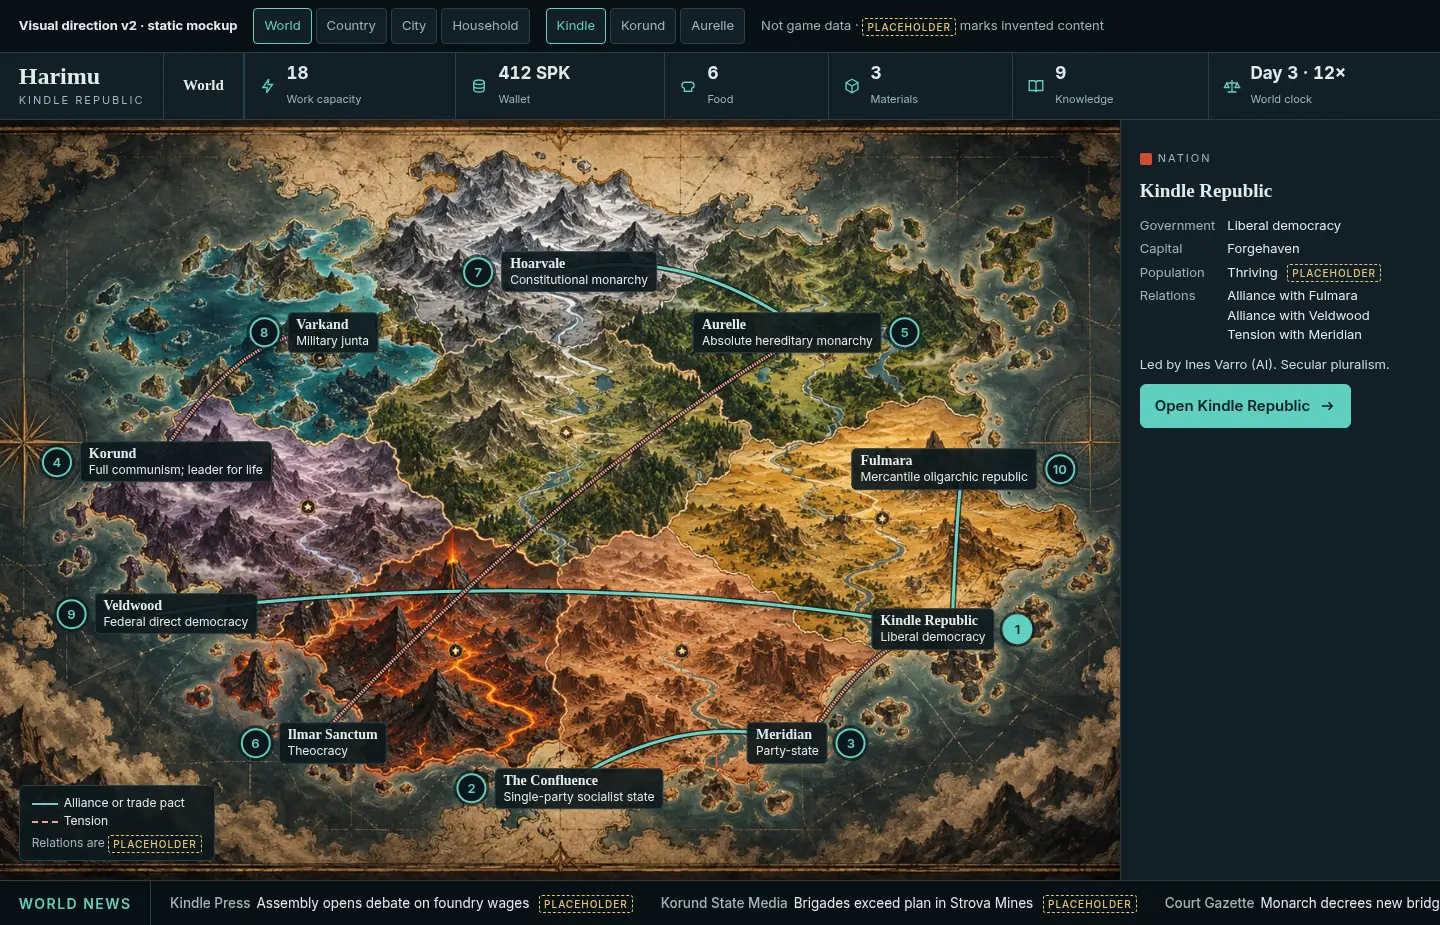
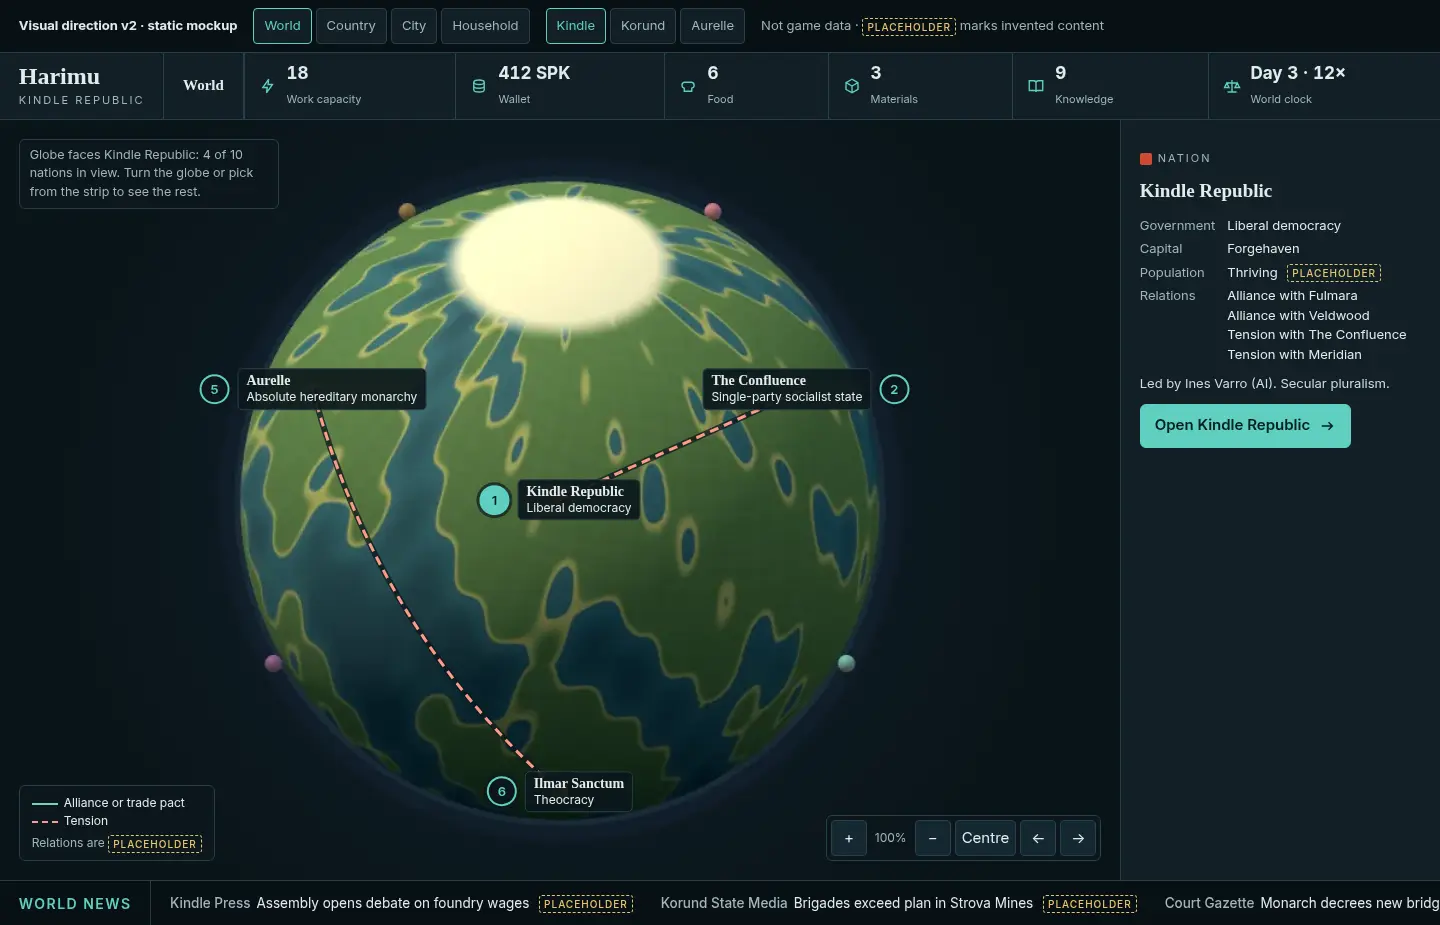
Visual direction v2: World scene is a globe like the game's, per Patrick (#180)

diff --git a/public/mockups/visual-direction-v2/index.html b/public/mockups/visual-direction-v2/index.html
@@ -47,9 +47,14 @@ ul.plain{list-style:none;margin:0;padding:0}
 /* ===== WORLD: full-bleed atlas, relations, ticker, nation card ===== */
 #world{grid-template-columns:minmax(0,1fr) 320px;grid-template-rows:minmax(520px,calc(100vh - 140px)) auto;grid-template-areas:"atlas card" "ticker ticker";position:relative}#world .atlas{grid-area:atlas}#world .ticker{grid-area:ticker}#world .keylist{grid-area:keys}
 .atlas{position:relative;overflow:hidden;background:#0a1418}
-.atlas>img{position:absolute;inset:0;width:100%;height:100%;object-fit:cover}
+.atlas{display:flex;align-items:center;justify-content:center;background:radial-gradient(circle at 50% 50%,#132631 0,#0d1a22 45%,#0a1418 75%)}
+.atlas{container-type:size}.globe-wrap{position:relative;width:min(92cqw,92cqh);aspect-ratio:1}
+.globe-wrap>img{position:absolute;inset:0;width:100%;height:100%;border-radius:50%;-webkit-mask:radial-gradient(circle closest-side,#000 97%,transparent 99%);mask:radial-gradient(circle closest-side,#000 97%,transparent 99%)}
+.globe-wrap>svg.rel{position:absolute;inset:0;width:100%;height:100%;z-index:2;pointer-events:none;overflow:visible}
+.globe-hint{position:absolute;z-index:4;left:var(--pad);top:var(--pad);margin:0;max-width:260px;font-size:12.5px;color:var(--muted);background:#0c171ce0;border:1px solid var(--line);border-radius:6px;padding:6px 10px}
+.globe-ctl{position:absolute;z-index:4;right:var(--pad);bottom:var(--pad);display:flex;gap:4px;align-items:center;background:#0c171ce8;border:1px solid var(--line);border-radius:6px;padding:4px}.globe-ctl button{min-width:36px;min-height:36px;background:var(--panel-2);border:1px solid var(--line);border-radius:4px;cursor:pointer}.globe-ctl span{font-size:12px;color:var(--muted);padding:0 4px}
 .atlas>svg.rel{position:absolute;inset:0;width:100%;height:100%;z-index:2;pointer-events:none}
-.rel path{fill:none}.rel .casing{stroke:#0c171c;stroke-width:6;opacity:.75}.rel .ally{stroke:var(--ally);stroke-width:3}.rel .tension{stroke:#ff9a88;stroke-width:3;stroke-dasharray:1.6 1.1}
+.rel path{fill:none;vector-effect:non-scaling-stroke}.rel .casing{stroke:#0c171c;stroke-width:6;opacity:.75}.rel .ally{stroke:var(--ally);stroke-width:3}.rel .tension{stroke:#ff9a88;stroke-width:3;stroke-dasharray:9 6}
 .atlas .legend{position:absolute;z-index:4;left:var(--pad);bottom:var(--pad);background:#0c171ce8;border:1px solid var(--line);border-radius:6px;padding:8px 12px;font-size:12px}
 .legend .ln{display:inline-block;width:26px;height:0;border-top:2.5px solid var(--ally);vertical-align:middle;margin-right:6px}.legend .ln.t{border-top:2.5px dashed #ff9a88}
 .nation-card{grid-area:card;border-radius:0;border-width:0 0 0 1px;overflow:auto}
@@ -126,6 +131,7 @@ ul.plain{list-style:none;margin:0;padding:0}
  .keylist button[aria-pressed=true]{border-color:var(--accent)}
  .keylist .n{display:grid;place-items:center;width:24px;height:24px;border-radius:50%;border:2px solid var(--accent);font-size:12px;font-weight:600;color:var(--accent)}
  .keylist small{display:block;color:var(--muted);font-size:11.5px}
+ .globe-ctl{display:none}.globe-hint{position:static;order:-1;align-self:stretch;max-width:none;border-radius:0;border-width:0 0 1px}#world .atlas .legend{position:static;align-self:stretch;margin:6px 8px 8px}#world .atlas{flex-direction:column}
  #world{grid-template-columns:minmax(0,1fr);grid-template-rows:56vh auto auto auto;grid-template-areas:"atlas" "keys" "card" "ticker"}
  .nation-card{border-width:1px 0 0}
  .atlas .legend{left:8px;bottom:8px;font-size:11px;padding:6px 8px}
@@ -172,10 +178,14 @@ ul.plain{list-style:none;margin:0;padding:0}
 <!-- WORLD -->
 <main id="world" class="screen" aria-labelledby="w-h">
  <section class="atlas" aria-labelledby="w-h">
-  <h2 id="w-h" style="position:absolute;left:-9999px">World atlas</h2>
-  <img src="/harimu-world-atlas.jpg" alt="Painted atlas of the Harimu continent with ten nations: mountains, forests, deserts and coasts.">
-  <svg class="rel" id="rel" viewBox="0 0 100 100" preserveAspectRatio="none" aria-hidden="true"></svg>
-  <div id="w-markers"></div>
+  <h2 id="w-h" style="position:absolute;left:-9999px">World globe</h2>
+  <div class="globe-wrap">
+   <img id="globe-img" src="globe-kindle.webp" alt="">
+   <svg class="rel" id="rel" viewBox="0 0 580 580" aria-hidden="true"></svg>
+   <div id="w-markers"></div>
+  </div>
+  <p class="globe-hint" id="globe-hint"></p>
+  <div class="globe-ctl" aria-label="Globe controls (mockup)" role="group"><button type="button" aria-label="Zoom in">+</button><span>100%</span><button type="button" aria-label="Zoom out">−</button><button type="button">Centre</button><button type="button" aria-label="Turn west">←</button><button type="button" aria-label="Turn east">→</button></div>
   <div class="legend" role="note" aria-label="Map legend"><div><span class="ln"></span>Alliance or trade pact</div><div><span class="ln t"></span>Tension</div><div style="margin-top:4px;color:var(--muted)">Relations are <span class="ph" style="margin:0">placeholder</span></div></div>
  </section>
  <aside class="nation-card card" id="w-card" aria-live="polite"></aside>
@@ -253,7 +263,7 @@ ul.plain{list-style:none;margin:0;padding:0}
 
 <script>
 const NATIONS=[['kindle','Kindle Republic','Liberal democracy','#cf4b32',85,67,'Forgehaven'],['confluence','The Confluence','Single-party socialist state','#2776a6',50,88,'Meetwater'],['meridian','Meridian','Party-state','#a1639c',72,82,'Steamgate'],['korund','Korund','Full communism; leader for life','#75654e',14,45,'Stonehearth'],['aurelle','Aurelle','Absolute hereditary monarchy','#94afbf',72,28,'Highspire'],['ilmar','Ilmar Sanctum','Theocracy','#d3a72f',28,82,'Mirrorhall'],['hoarvale','Hoarvale','Constitutional monarchy','#45a7b8',50,20,'Rimehall'],['varkand','Varkand','Military junta','#526b68',28,28,'Watchfast'],['veldwood','Veldwood','Federal direct democracy','#5b8d42',14,65,'Ringhall'],['fulmara','Fulmara','Mercantile oligarchic republic','#6440a0',86,46,'Arcport']];
-const REL={ally:[['kindle','fulmara'],['hoarvale','aurelle'],['confluence','meridian'],['veldwood','kindle']],tension:[['korund','varkand'],['kindle','meridian'],['aurelle','ilmar']]}; // placeholder relations
+const REL={ally:[['korund','meridian'],['kindle','fulmara'],['hoarvale','aurelle'],['confluence','meridian'],['veldwood','kindle']],tension:[['kindle','confluence'],['korund','varkand'],['kindle','meridian'],['aurelle','ilmar']]}; // placeholder relations
 const N={
  kindle:{name:'Kindle Republic',cash:'412 SPK',cur:'Spark (SPK) · free float',faith:'Secular pluralism',ruler:['IV','Ines Varro','President · elected'],regime:'Liberal democracy',stab:78,cities:[['Forgehaven','Capital · Assembly',175,150,true],['Tarrek Foundry','Foundries · lava fields',415,160],['Kolt Savanna','Granaries · farms',250,300]],regions:['Plateau','Lava Fields','Savanna','Coast'],
   laws:[['Open','Posted prices on every market stall'],['Vote','Preview ballot ranks AI candidates'],['Work','Wages settle at each shift deadline']],
@@ -286,6 +296,8 @@ const HH=[['/assets/household/leora-vale.webp','Leora Vale','34 · keeps the boo
 const NEIGH=[['Tarrek household','4 members · friendly'],['Moss household','2 members · new arrivals'],['Okafor household','5 members · tense with you'],['Ruel household','3 members · owes you 2 food']]; // placeholder neighbours
 const $=id=>document.getElementById(id),esc=s=>String(s).replace(/[&<>"]/g,c=>({'&':'&amp;','<':'&lt;','>':'&gt;','"':'&quot;'}[c]));
 let pickedNation='kindle';
+// Pin positions on the captured globe images (580×580 px crop of the game's globe, facing each nation).
+const GLOBE={kindle:{kindle:[290,290],confluence:[494,198],aurelle:[85,198],ilmar:[290,532]},korund:{korund:[290,290],meridian:[85,198],aurelle:[494,198],veldwood:[290,532]},aurelle:{aurelle:[290,290],korund:[85,198],kindle:[494,198],fulmara:[290,532]}};
 function marker({x,y,n,title,sub,cls='',pressed=false,left=false,data=''}){return `<button type="button" class="marker ${cls}${left?' left':''}" style="left:${x}%;top:${y}%" aria-pressed="${pressed}" ${data} aria-label="${esc(title)}${sub?': '+esc(sub):''}"><span class="pin">${n}</span><span class="tag"><b>${esc(title)}</b>${sub?esc(sub):''}</span></button>`}
 function keylist(items,attr){return `<ol>${items.map(i=>`<li><button type="button" ${attr(i)} aria-pressed="${!!i.pressed}"><span class="n">${i.n}</span><span>${esc(i.title)}<small>${esc(i.sub||'')}</small></span></button></li>`).join('')}</ol>`}
 const ISO={tw:60,th:30,ox:540,oy:70},IP=(gx,gy)=>[ISO.ox+(gx-gy)*ISO.tw/2,ISO.oy+(gx+gy)*ISO.th/2];
@@ -316,10 +328,13 @@ function render(){
  const crumbs=[['world','World'],['country',x.name],['city',x.city],['household','Vale household']];const idx=crumbs.findIndex(c=>c[0]===k);
  $('crumbs').innerHTML=crumbs.slice(0,idx+1).map(([s,l],i)=>i===idx?`<b aria-current="page">${esc(l)}</b>`:`<a href="?screen=${s}&nation=${n}" data-go="${s}" style="color:var(--muted)">${esc(l)}</a> ›`).join(' ');
  // WORLD
- const rel=[];for(const [t,list] of Object.entries(REL))for(const [a,b] of list){const A=NATIONS.find(v=>v[0]===a),B=NATIONS.find(v=>v[0]===b);{const dd=`M${A[4]} ${A[5]} Q${(A[4]+B[4])/2} ${(A[5]+B[5])/2-8} ${B[4]} ${B[5]}`;rel.push(`<path class="casing" vector-effect="non-scaling-stroke" d="${dd}"/><path class="${t==='ally'?'ally':'tension'}" vector-effect="non-scaling-stroke" d="${dd}"/>`);}}
+ // The globe faces your nation, like the current game's globe (captured from it). Only the nations on the visible face get pins.
+ const face=GLOBE[n];$('globe-img').src=`globe-${n}.webp`;
+ const rel=[];for(const [t,list] of Object.entries(REL))for(const [a,b] of list){const A=face[a],B=face[b];if(!A||!B)continue;const mx=(A[0]+B[0])/2,my=(A[1]+B[1])/2,dx=mx-290,dy=my-290,l=Math.hypot(dx,dy)||1,cx=mx+dx/l*60,cy=my+dy/l*60;const dd=`M${A[0]} ${A[1]} Q${cx} ${cy} ${B[0]} ${B[1]}`;rel.push(`<path class="casing" d="${dd}"/><path class="${t==='ally'?'ally':'tension'}" d="${dd}"/>`);}
  $('rel').innerHTML=rel.join('');
- const wItems=NATIONS.map((v,i)=>({n:i+1,id:v[0],title:v[1],sub:v[2],x:v[4],y:v[5],pressed:v[0]===pickedNation}));
- $('w-markers').innerHTML=wItems.map(i=>marker({...i,left:i.x>60,data:`data-pick="${i.id}"`})).join('');
+ const wItems=NATIONS.map((v,i)=>({n:i+1,id:v[0],title:v[1],sub:v[2],x:face[v[0]]?face[v[0]][0]/5.8:null,y:face[v[0]]?face[v[0]][1]/5.8:null,pressed:v[0]===pickedNation}));
+ $('w-markers').innerHTML=wItems.filter(i=>i.x!==null).map(i=>marker({...i,left:i.x>60,data:`data-pick="${i.id}"`})).join('');
+ $('globe-hint').textContent=`Globe faces ${N[n].name}: ${wItems.filter(i=>i.x!==null).length} of 10 nations in view. Turn the globe or pick from the strip to see the rest.`;
  $('w-keys').innerHTML=keylist(wItems,i=>`data-pick="${i.id}"`);
  const P=NATIONS.find(v=>v[0]===pickedNation),pr=N[pickedNation];
  const rels=[...REL.ally.filter(r=>r.includes(P[0])).map(r=>['Alliance',r.find(v=>v!==P[0])]),...REL.tension.filter(r=>r.includes(P[0])).map(r=>['Tension',r.find(v=>v!==P[0])])].map(([t,o])=>`${t} with ${NATIONS.find(v=>v[0]===o)[1]}`);

diff --git a/docs/VISUAL_DIRECTION_V2.md b/docs/VISUAL_DIRECTION_V2.md
@@ -3,7 +3,7 @@
 Patrick's verdict on v1 (#184): **world, country, city and household must each be a visually different scene**, not one template reused. v2 keeps the shared design language and gives each zoom level its own composition and purpose. v1 stays in the repo for comparison (`docs/VISUAL_DIRECTION_V1.md`).
 
 - **Live mockup:** `/mockups/visual-direction-v2/?screen=world|country|city|household&nation=kindle|korund|aurelle`. Toggles are at the top. Extra params: `&pick=<nation>` (World card) and `&peek=0..3` (City neighbour peek).
-- **Source:** `public/mockups/visual-direction-v2/index.html` (one file, no dependencies). Art: `harimu-world-atlas.jpg` and the Vale household portraits. The country map, isometric district and home interior are drawn in SVG as placeholder art.
+- **Source:** `public/mockups/visual-direction-v2/index.html` (one file, no dependencies). Art: globe captures from the game's world view (`globe-<nation>.webp`) and the Vale household portraits. The country map, isometric district and home interior are drawn in SVG as placeholder art.
 - It's static. It isn't wired to game data. Anything marked **PLACEHOLDER** is invented for layout; anything marked **PROPOSAL** follows the vision proposal below.
 
 ## Shared language (every scene)
@@ -12,7 +12,7 @@ Dark slate (`#0c171c` / `#111f26`). A nation accent: Kindle teal `#5fd0c0`, Koru
 ## Four scenes, four compositions
 | Zoom | Composition | Purpose |
 |---|---|---|
-| **World** | Full-bleed atlas of all 10 nations (positions from the repo's nation table), with relation lines: solid = alliance or trade pact, dashed = tension. A global news ticker runs underneath, and a nation card docks on the right when you pick one (government, capital, population band from #81, relations, "Open <nation>"). **No portrait row.** | Compare nations and read the world. |
+| **World** | **A globe, like the current game's globe**, per Patrick's decision (Oct 14). It is not a flat map. The globe image is captured from the game's own world view and faces your nation (Kindle, Korund or Aurelle). Pins and relation arcs (solid = alliance or trade pact, dashed = tension) show only the nations on the visible face, as in the game; the rest are in the nation strip or list, and you reach them by turning the globe. A global news ticker runs underneath, and the nation card (government, capital, population band from #81, relations, "Open <nation>") sits in a right-hand column. **The card's placement is still open**: a right-hand column (as shown) or floating next to the picked nation. **No portrait row.** | Compare nations and read the world. |
 | **Country** (new) | The nation's own map (regions, river, roads) with its three real cities from `lib/cities.ts`, capital highlighted. The **Government** panel shows the AI ruler (Ines Varro, Neral Voss, Maera Solenne), regime, faith, currency, a stability meter, laws in force, and a **national project** with contribution progress. Below: the nation's real **Notables** (`lib/notable-roster.ts`), each with a Talk action, and **national headlines** from Kindle Press, Korund State Media or the Court Gazette. | Understand who rules, what's built and what's said. |
 | **City** | An isometric **district** with numbered places: market, workplace (Foundry yard / Brigade yard / Royal estate), square (Notables, notice board, kiosk), temple (Open temple / Workers' hall, since Korund has state atheism / Kinward hearth-temple), and a **public works** site under scaffolding. **Neighbouring households** (Tarrek, Moss, Okafor, Ruel; placeholder names) are labelled with members plus mood or relationship, and are selectable to **peek in**. **Your home is highlighted** in the nation accent with a halo and links to Household. A shift strip shows the active shift and open work orders. A right rail holds the **decision card** (primary plus secondary choices, What we know / What we assume) and city square chatter, with a "citizens walking this district" count. | Choose where to go today and see who lives around you. |
 | **Household** | A warm **interior** scene (hearth, table, pantry shelves, window). **Family** portrait cards for the Vale household show needs (fed, rested), mood and a 5-step trust bar. There's a **Meals and pantry** panel with Cook a meal, **Today's schedule** as a timeline with a "now" marker, and **first-week goals** using the real day-3 arc from `lib/first-week.ts`, with the same Done / To do / Not tracked yet states as #162. "Customize home" refers to the plot plus template idea. | Look after the family and plan the day. |
@@ -39,10 +39,10 @@ Full-size PNGs are on the box at `/workspace/vd/v2/`; compressed copies are here
 | ![City](visual-direction-v2/city-kindle-1440.webp) | ![City mobile](visual-direction-v2/city-kindle-390.webp) |
 | ![Household](visual-direction-v2/household-kindle-1440.webp) | ![Household mobile](visual-direction-v2/household-kindle-390.webp) |
 
-Korund accent: [World](visual-direction-v2/world-korund-1440.webp) · [Country](visual-direction-v2/country-korund-1440.webp) · [City](visual-direction-v2/city-korund-1440.webp) · [Household](visual-direction-v2/household-korund-1440.webp). Aurelle: [City](visual-direction-v2/city-aurelle-1440.webp) · [Household 390](visual-direction-v2/household-aurelle-390.webp). Neighbour peek: [City, Tarrek household](visual-direction-v2/city-kindle-1440-peek.webp).
+Korund accent: [World](visual-direction-v2/world-korund-1440.webp) · [World 390](visual-direction-v2/world-korund-390.webp) · [Country](visual-direction-v2/country-korund-1440.webp) · [City](visual-direction-v2/city-korund-1440.webp) · [Household](visual-direction-v2/household-korund-1440.webp). Aurelle: [City](visual-direction-v2/city-aurelle-1440.webp) · [Household 390](visual-direction-v2/household-aurelle-390.webp). Neighbour peek: [City, Tarrek household](visual-direction-v2/city-kindle-1440-peek.webp).
 
 ## Open questions for Patrick
-1. Should the World nation card dock on the right (as shown) or float next to the picked nation?
+1. **Still open:** should the World nation card stay in a right-hand column (as shown) or float next to the picked nation on the globe?
 2. Should the Country scene be its own nav tab, or reached only by zooming from World?
 3. Should the City district be drawn isometric (as shown) or walkable Three.js first (per the proposal's §5)?
 4. How much of a neighbour's home should "peek in" reveal (members, mood, relationship), and what needs their consent?
